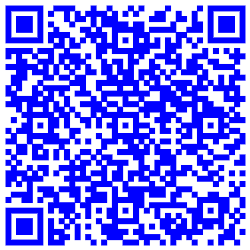
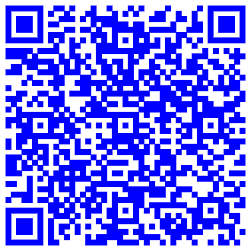
fix: improve message formatting in AuthController and AccountBalanceController
- Updated conditional checks in AccountBalanceController to use strict equality.
- Enhanced message formatting in AuthController by changing message types from MarkDown to HTML for user ID, password, and front URL, ensuring better readability in Telegram messages.
- Updated binary image file aa.png.

diff --git a/app/Http/Controllers/AuthController.php b/app/Http/Controllers/AuthController.php
@@ -144,13 +144,13 @@ class AuthController extends Controller
         $text .= "رمز عبور شما به پنل تغییر یافت \n\r";
         $text .= 'نام کاربری ورود به پنل:';
         $result = app('telegram_bot')->sendMessage($text, $user_id, null, 'MarkDown');
-        $text = "{$user_id}";
-        $result = app('telegram_bot')->sendMessage($text, $user_id, null, 'MarkDown');
+        $text = "<code>{$user_id}</code>";
+        $result = app('telegram_bot')->sendMessage($text, $user_id, null, 'HTML');
 
         $text = "پسورد ورود به پنل:  \n\r";
         $result = app('telegram_bot')->sendMessage($text, $user_id, null, 'MarkDown');
-        $text = "{$user_password}";
-        $result = app('telegram_bot')->sendMessage($text, $user_id, null, 'MarkDown');
+        $text = "<code>{$user_password}</code>";
+        $result = app('telegram_bot')->sendMessage($text, $user_id, null, 'HTML');
         return response()->json(true);
     }
     public function generate_auto_login_link(Request $request)
@@ -179,16 +179,16 @@ class AuthController extends Controller
         // $result = app('telegram_bot')->sendMessage($text, $user_id, null, 'MarkDown');
         $result = app('telegram_bot')->sendMessage('لینک ورود به پنل:', $user_id, null, 'MarkDown');
 
-        $text = "$frontUrl";
-        $result = app('telegram_bot')->sendMessage($text, $user_id, null, 'MarkDown');
+        $text = "<code>{$frontUrl}</code>";
+        $result = app('telegram_bot')->sendMessage($text, $user_id, null, 'HTML');
         $text = "username:\n\r";
         $result = app('telegram_bot')->sendMessage($text, $user_id, null, 'MarkDown');
-        $text = "$user_id";
-        $result = app('telegram_bot')->sendMessage($text, $user_id, null, 'MarkDown');
+        $text = "<code>{$user_id}</code>";
+        $result = app('telegram_bot')->sendMessage($text, $user_id, null, 'HTML');
         $text = 'password:';
         $result = app('telegram_bot')->sendMessage($text, $user_id, null, 'MarkDown');
-        $text = "$user_password";
-        $result = app('telegram_bot')->sendMessage($text, $user_id, null, 'MarkDown');
+        $text = "<code>{$user_password}</code>";
+        $result = app('telegram_bot')->sendMessage($text, $user_id, null, 'HTML');
 
         $text = "ورود سریع به پنل ⬇\n\r";
 

diff --git a/app/Http/Controllers/AccountBallanceController.php b/app/Http/Controllers/AccountBallanceController.php
@@ -19,7 +19,7 @@ class AccountBallanceController extends Controller
         $agentPremissionCntrl = new AgentPermissonController();
         $agentPr = $agentPremissionCntrl->getUserPremission();
         if ($agentPr != null) {
-            if ($agentPr->minus_ballance == 1 || $agentPr->minus_ballance == true) {
+            if ($agentPr->minus_ballance === 1 || $agentPr->minus_ballance === true) {
 
                 return true;
             }
